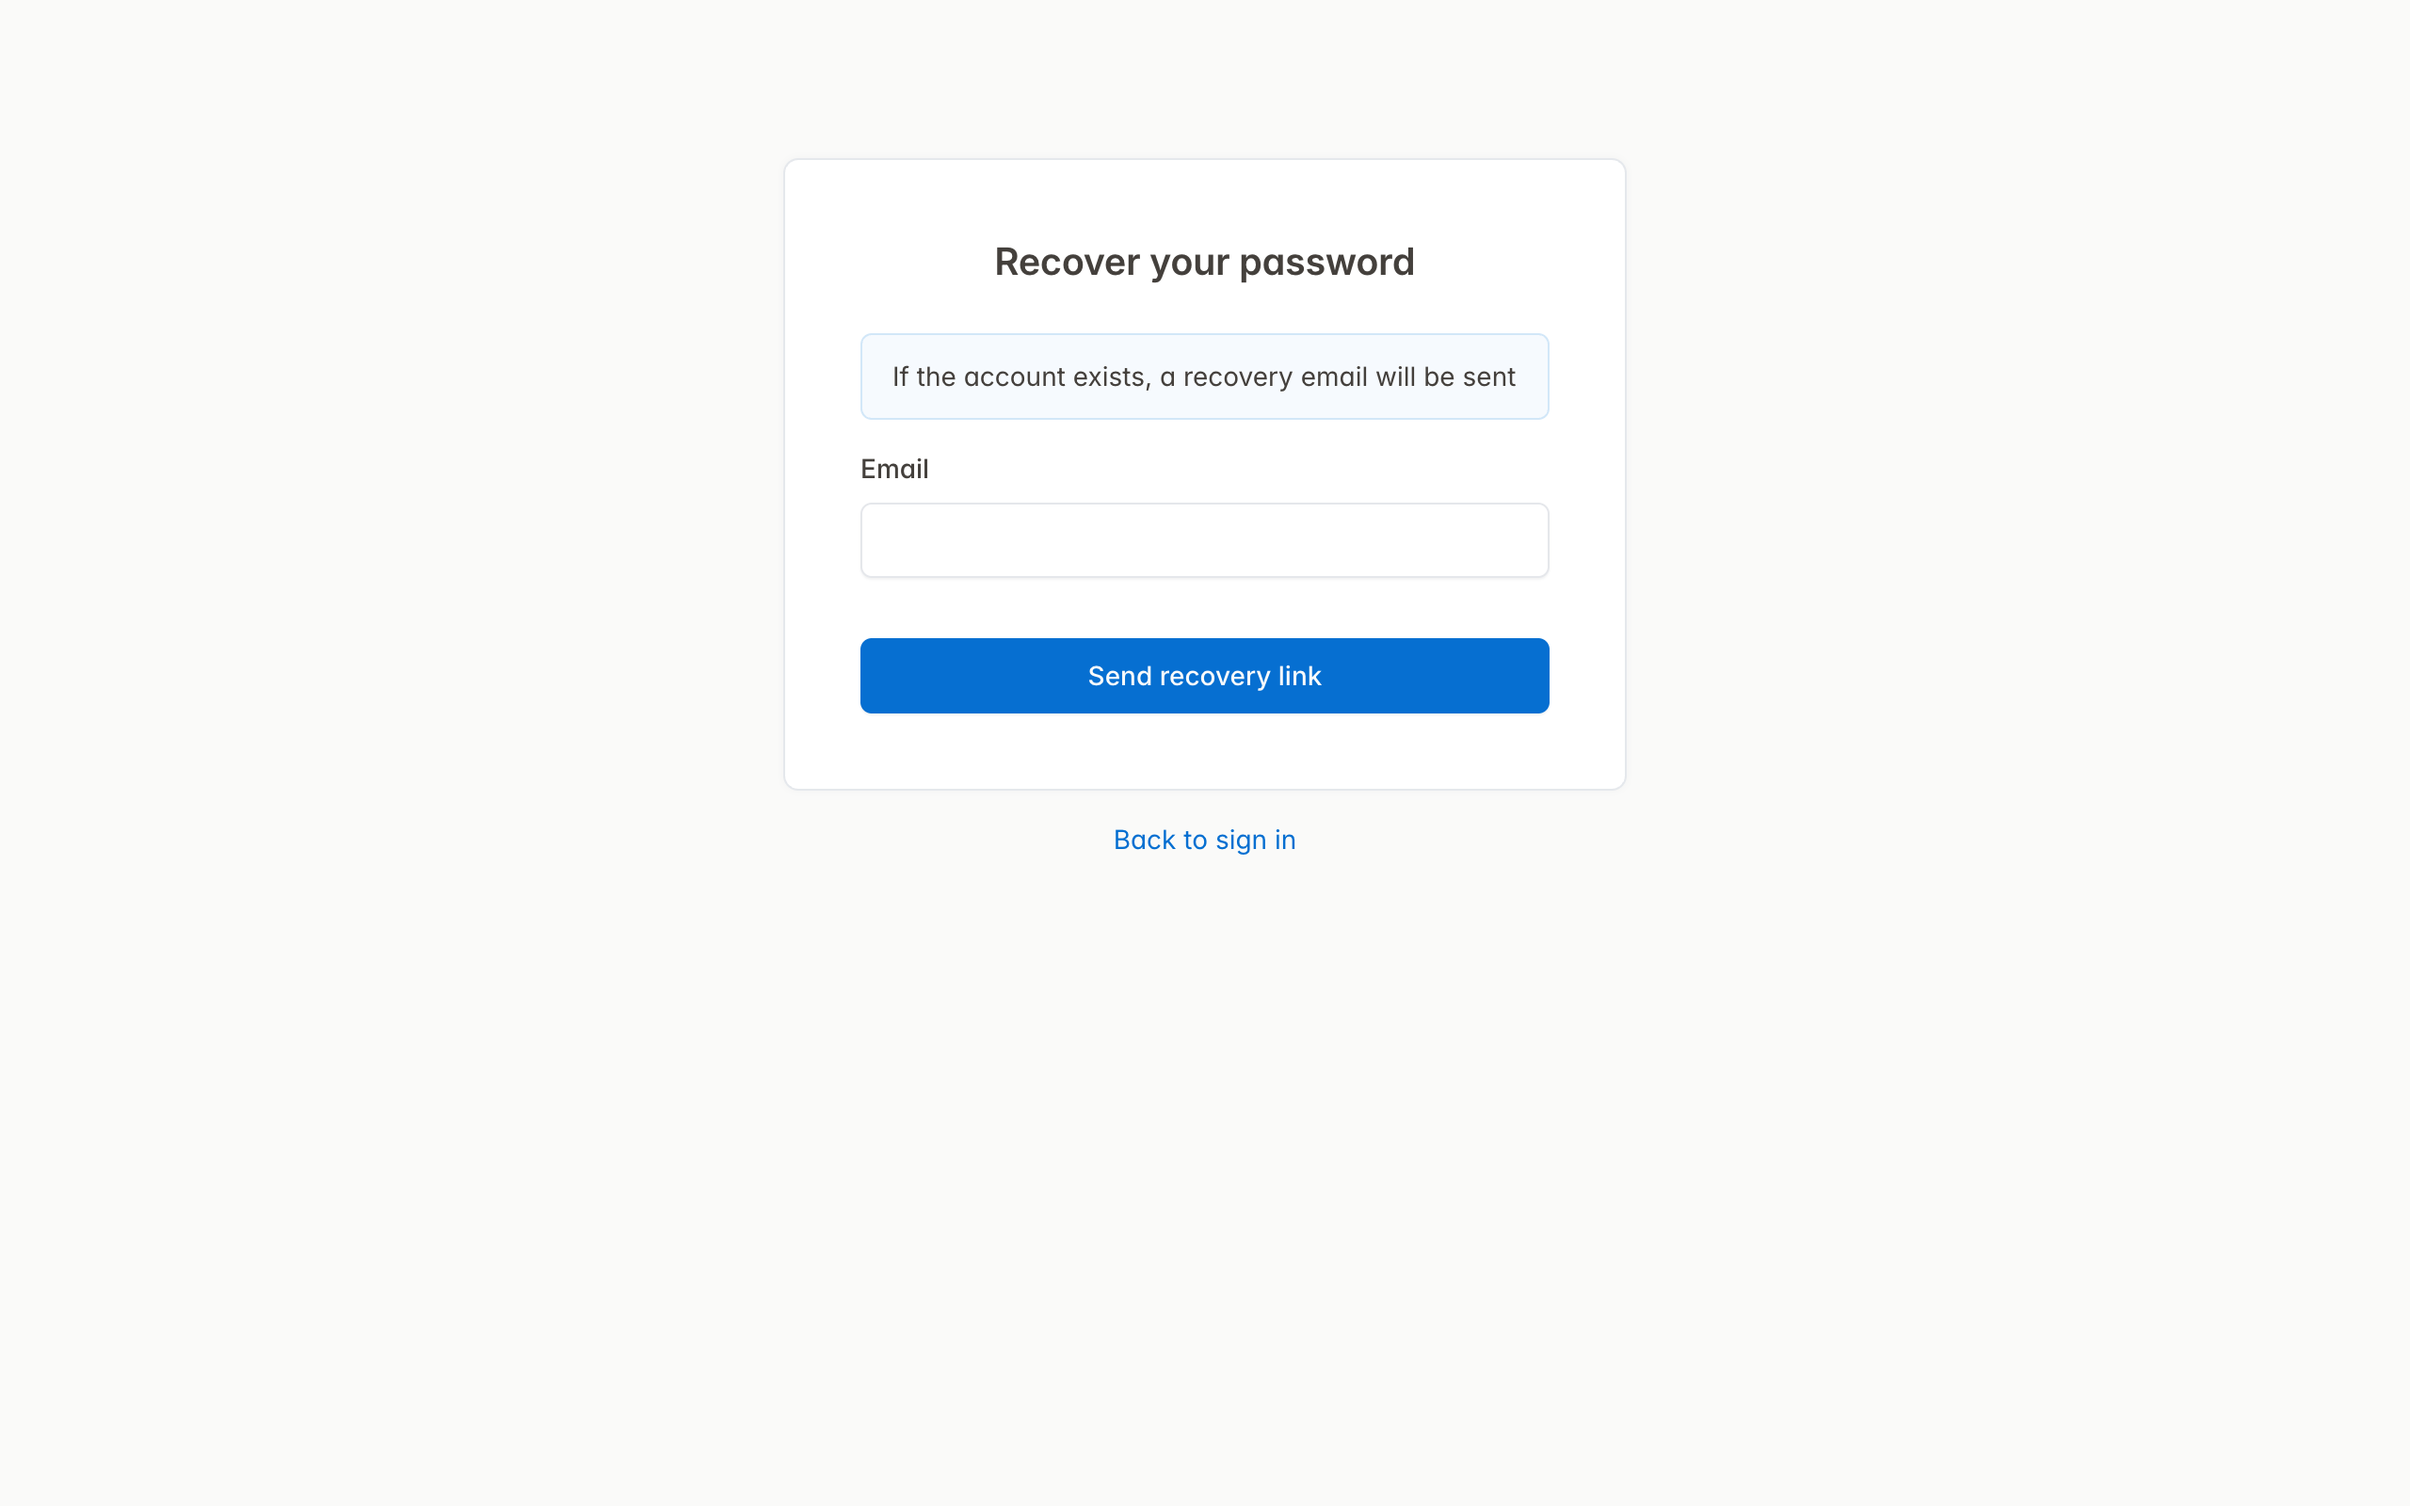
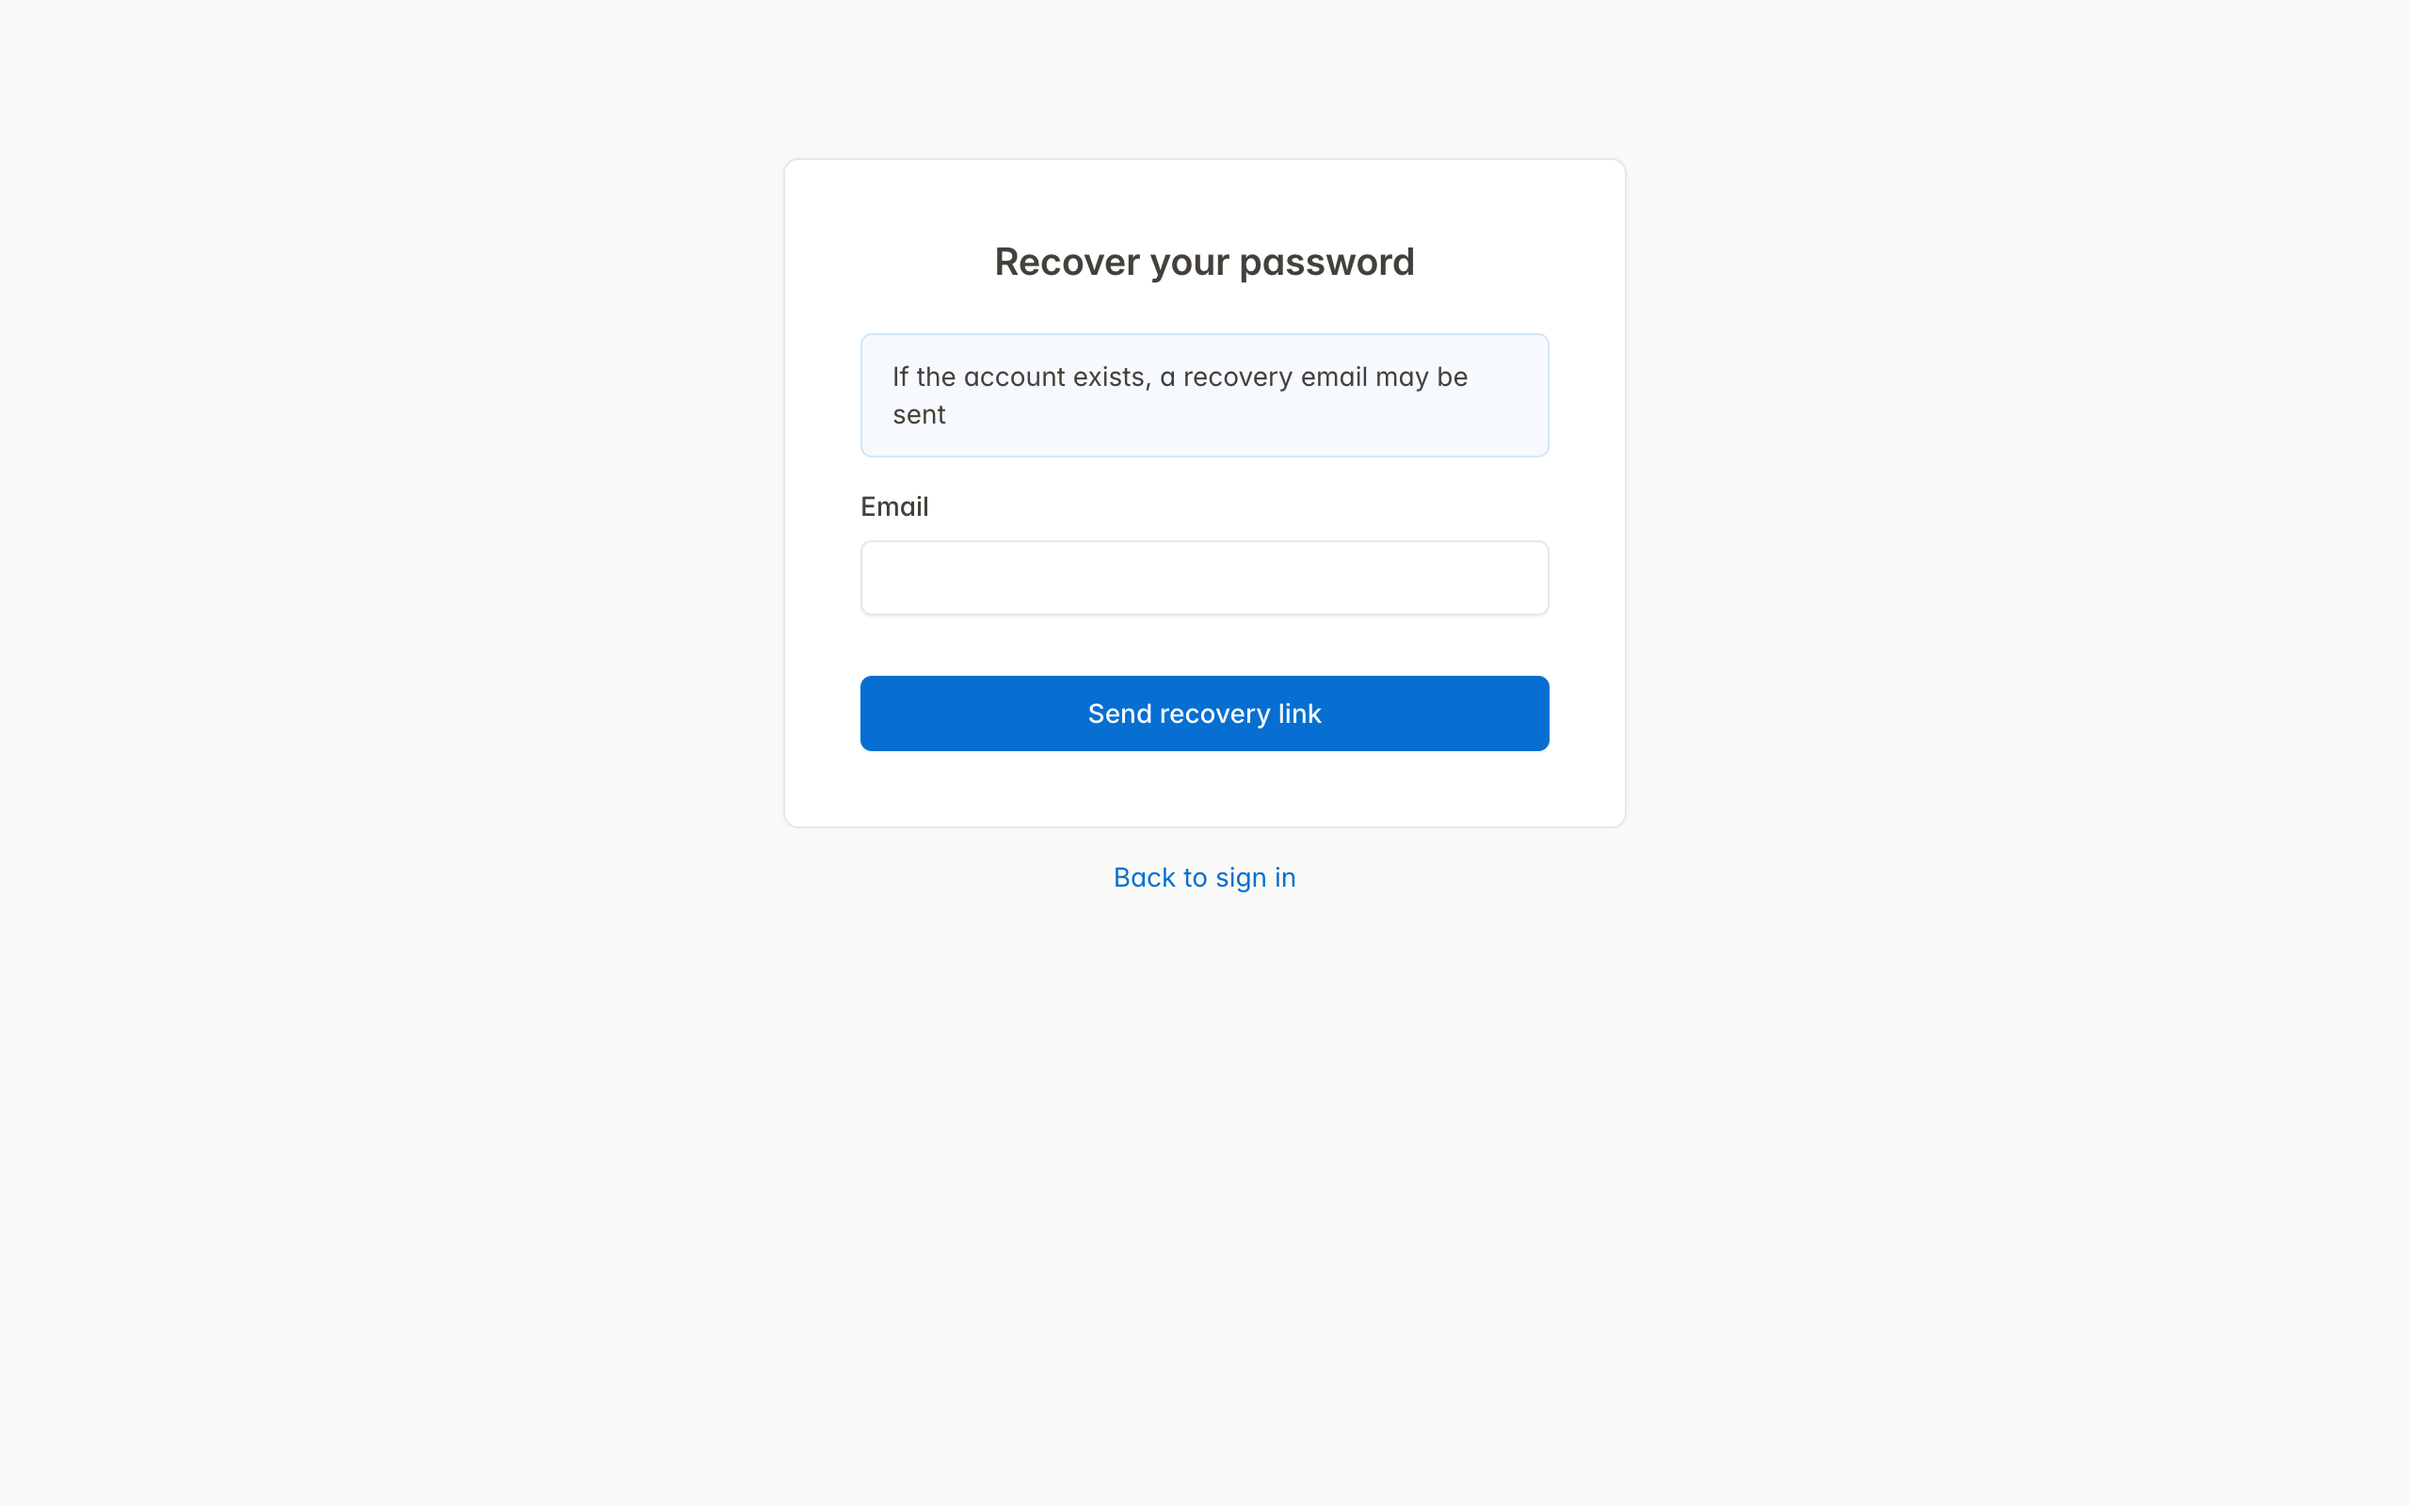
docs(backend): B41 document final recovery design and approve new baseline

diff --git a/apps/backend/README.md b/apps/backend/README.md
@@ -72,17 +72,17 @@ Administrator bearer token required (`401` without a valid token, `403` for oper
 
 ## Password recovery
 
-`POST /auth/password-reset/request {"email": …}` (also the "Forgot your password?" form on the panel login) always answers `202` with the same generic message. Only an existing active identity gets an email; the response never reveals which case applied.
+`POST /auth/password-reset/request {"email": …}` (also the "Forgot your password?" form at `/admin/forgot-password`, linked from the panel login) always answers `202` with the same generic message, and the request does the same work for every account: it records rate-limit attempts and queues an encrypted recovery job. The worker later checks whether the account exists and is active and only then issues a token and an email, so neither the response nor its timing reveals which emails are registered.
 
-- The link is `TAPPY_PUBLIC_BASE_URL/password-reset?token=…`; its origin comes from configuration, never from the request `Host`. Tokens are random, valid for `TAPPY_PASSWORD_RESET_TTL_SECONDS` (default 1800) and stored only as SHA-256 digests.
-- Requests are limited per email (`TAPPY_RECOVERY_LIMIT_PER_EMAIL`, default 3) and per client origin (`TAPPY_RECOVERY_LIMIT_PER_ORIGIN`, default 10) within `TAPPY_RECOVERY_WINDOW_SECONDS` (default 3600). Limits are stored in Postgres, so they survive restarts and apply across processes; they never block sign-in.
-- Emails go through a durable outbox: the body is encrypted with a key derived from `TAPPY_SECRET_KEY`, purged after sending, and retried with exponential backoff up to `TAPPY_DELIVERY_MAX_ATTEMPTS` (default 5). Run the worker periodically:
+- The link is `TAPPY_PUBLIC_BASE_URL/password-reset#token=…`: its origin comes from configuration, never from the request `Host`, and the token travels in the URL fragment so it never reaches server logs. Tokens are random, valid for `TAPPY_PASSWORD_RESET_TTL_SECONDS` (default 1800) and stored only as SHA-256 digests.
+- Requests are limited per email (`TAPPY_RECOVERY_LIMIT_PER_EMAIL`, default 3) and per client origin (`TAPPY_RECOVERY_LIMIT_PER_ORIGIN`, default 10) within `TAPPY_RECOVERY_WINDOW_SECONDS` (default 3600). Limits are stored in Postgres as keyed HMAC digests (no plain email addresses), survive restarts, apply across processes and never block sign-in.
+- Recovery jobs and outbound emails keep their payload encrypted with a key derived from `TAPPY_SECRET_KEY` and purge it once processed or sent. Each email is claimed and counted in its own transaction before sending, retried with exponential backoff up to `TAPPY_DELIVERY_MAX_ATTEMPTS` (default 5); an undecryptable payload fails alone without blocking the queue. Delivery is at least once: an ambiguous SMTP failure is retried. Run the worker periodically:
 
 ```sh
 uv run python -m tappy.notifications deliver
 ```
 
-- SMTP: `TAPPY_SMTP_HOST`, `TAPPY_SMTP_PORT`, `TAPPY_SMTP_USERNAME`, `TAPPY_SMTP_PASSWORD`, `TAPPY_SMTP_STARTTLS`, `TAPPY_MAIL_FROM`. Locally Compose runs Mailpit (SMTP `127.0.0.1:1025`, inbox `http://127.0.0.1:8025`). Real delivery needs a provider and an authorized sender; it is not exercised in CI.
+- SMTP: `TAPPY_SMTP_HOST`, `TAPPY_SMTP_PORT`, `TAPPY_SMTP_USERNAME`, `TAPPY_SMTP_PASSWORD`, `TAPPY_SMTP_STARTTLS`, `TAPPY_MAIL_FROM`. Locally Compose runs Mailpit (SMTP `127.0.0.1:1025`, inbox `http://127.0.0.1:8025`). Real delivery needs a provider and an authorized sender; it is not exercised in CI. The `/password-reset` page that consumes the token arrives with B42.
 
 ## Back office
 
